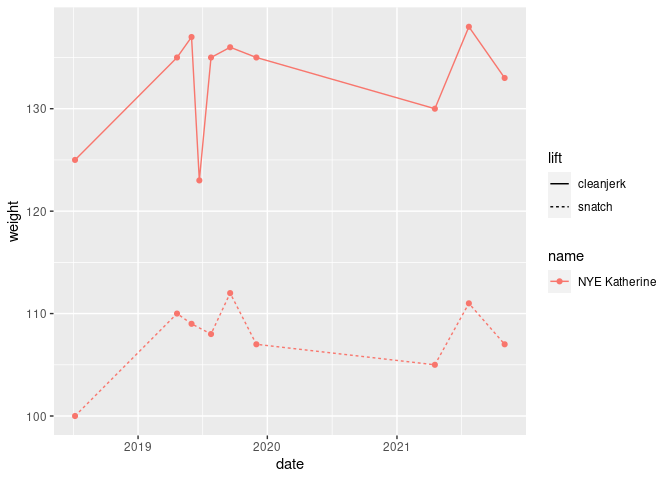
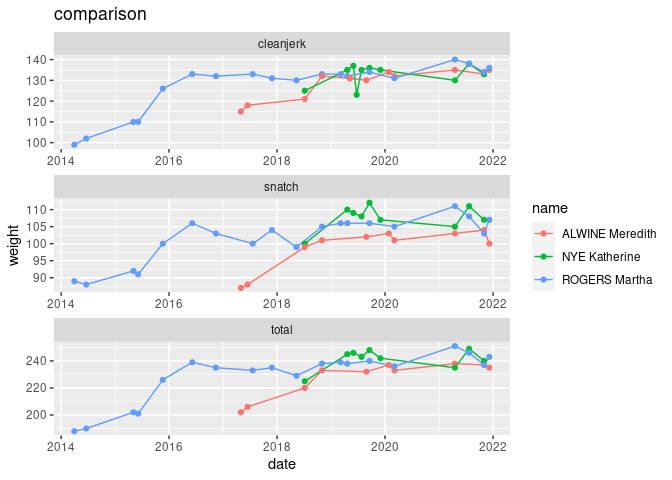
started analysis

diff --git a/analysis.md b/analysis.md
@@ -28,29 +28,32 @@ to the athlete who lift the most combined, called the total. This medal
 holds much more weight than the other two. The gold medal winner in the
 total is called the category champion.
 
-|     Clean and Jerk     |        Snatch         |
-|:----------------------:|:---------------------:|
-| ![](./images/ilya.gif) | ![](./images/liu.gif) |
+|       Clean and Jerk       |          Snatch          |
+|:--------------------------:|:------------------------:|
+| ![ilya](./images/ilya.gif) | ![liu](./images/liu.gif) |
 
 ``` r
 search <- athletes %>% filter(
-  grepl('katherine', name, ignore.case = TRUE),
+  grepl('katherine', name, ignore.case = TRUE) | grepl('martha', name, ignore.case = TRUE) | grepl('alwine', name, ignore.case = TRUE),
   grepl('USA', nations)
   )
-ids = search['athlete_id']
+ids = search$athlete_id
 
 results_sep <- results %>% # a dataset where each best lift/total is another line
-  select(-contains("lift")) %>% 
-  pivot_longer(c("snatch_best", "cleanjerk_best", "total"), names_to = "lift", values_to = "weight") %>% 
-  mutate(lift = str_remove(lift, "_best"))
+  select(-contains('lift')) %>% 
+  pivot_longer(c('snatch_best', 'cleanjerk_best', 'total'), names_to = 'lift', values_to = 'weight') %>% 
+  mutate(lift = str_remove(lift, '_best'))
 
 results_sep %>% 
-  filter(athlete_id %in% ids, !is.na(weight)) %>% 
-  left_join(events, by = 'event_id') %>% 
-  filter(lift != "total") %>% 
+  filter(
+    sapply(athlete_id, function(id) id %in% ids),
+    !is.na(weight)) %>% 
+  left_join(events, by = 'event_id') %>%
   ggplot(aes(x = date, y = weight, color = name)) +
-    geom_line(aes(linetype = lift)) +
-    geom_point()
+    geom_line() +
+    geom_point() +
+    facet_wrap(vars(lift), scales = 'free', ncol = 1) +
+    labs(title = 'comparison')
 ```
 
 ![](analysis_files/figure-gfm/unnamed-chunk-1-1.png)<!-- -->
